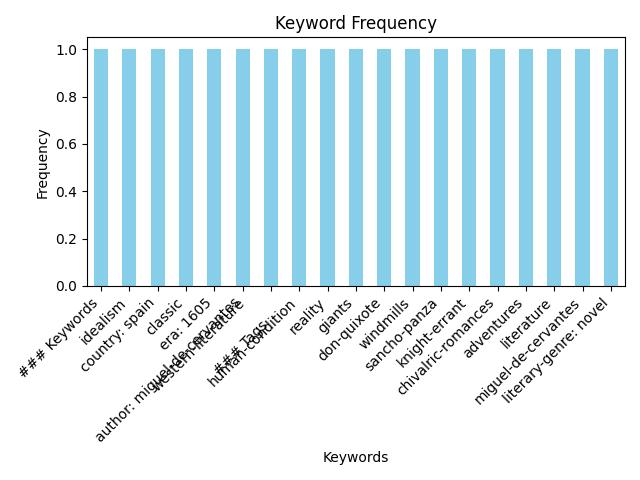
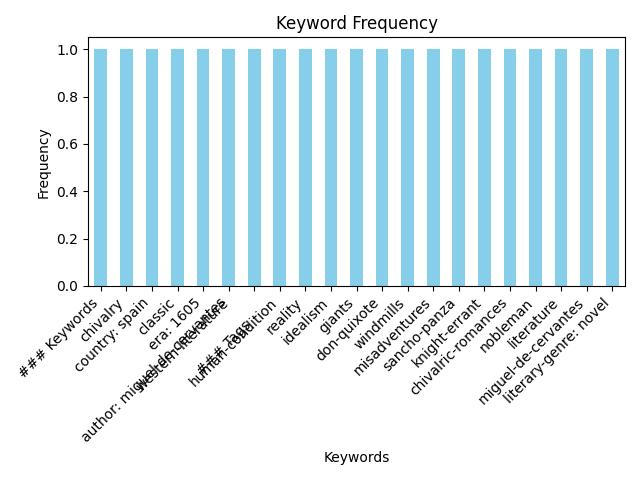
chore: commit save point

diff --git a/main.py b/main.py
@@ -35,20 +35,39 @@ def generate_tag_cloud(keywords: str, output_path: str):
     keywords_list = keywords.split("keywords:")[-1].strip().split("\n- ")
     keywords_list = [kw.strip() for kw in keywords_list if kw.strip()]  # Filtramos palabras vacías y espacios
 
+    # Eliminamos líneas no válidas como "### tags" o caracteres extraños
+    keywords_list = [kw for kw in keywords_list if not kw.lower().startswith("###")]
+
+    # Procesamos los valores de los tags para extraer solo el contenido después de ":"
+    processed_keywords = []
+    for kw in keywords_list:
+        if ":" in kw:  # Si es un tag con formato "clave: valor"
+            _, value = kw.split(":", 1)
+            processed_keywords.append(value.strip())  # Agregamos solo el valor
+        else:
+            processed_keywords.append(kw)  # Agregamos la palabra clave tal cual
+
     # Normalizamos las stop words (minúsculas y lematización)
     normalized_stopwords = {lemmatizer.lemmatize(word.lower()) for word in CUSTOM_STOPWORDS}
 
     # Filtramos stop words y lematizamos las palabras clave
-    filtered_keywords = [
-        lemmatizer.lemmatize(word.lower())  # Convertimos a minúsculas y lematizamos
-        for word in keywords_list
-        if lemmatizer.lemmatize(word.lower()) not in normalized_stopwords  # Comparamos con stop words normalizadas
-    ]
+    filtered_keywords = []
+    for word in processed_keywords:
+        # Mantener palabras con guiones como una sola unidad
+        if "-" in word:
+            normalized_word = "-".join([lemmatizer.lemmatize(w.lower()) for w in word.split("-")])
+        else:
+            normalized_word = lemmatizer.lemmatize(word.lower())
+
+        # Filtrar si la palabra normalizada no está en las stop words
+        if normalized_word not in normalized_stopwords:
+            filtered_keywords.append(normalized_word)
 
     # Depuración: Imprimir listas para verificar el filtrado
-    print("Original Keywords List:", keywords_list)
-    print("Normalized Stopwords:", normalized_stopwords)
-    print("Filtered Keywords List:", filtered_keywords)
+    print(f"\nOriginal Keywords List: {keywords_list}")
+    print(f"\nProcessed Keywords List: {processed_keywords}")
+    print(f"\nNormalized Stopwords: {normalized_stopwords}")
+    print(f"\nFiltered Keywords List: {filtered_keywords}")
 
     # Verificamos si hay palabras clave después del filtrado
     if not filtered_keywords:
